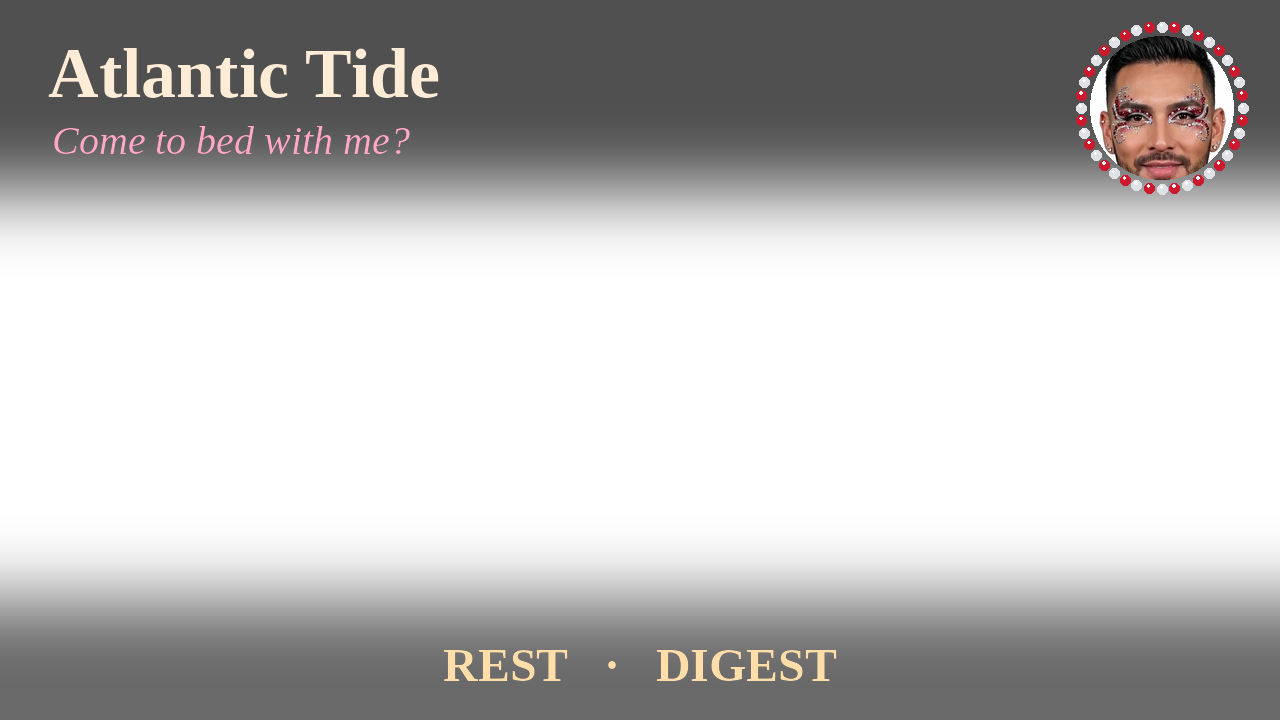
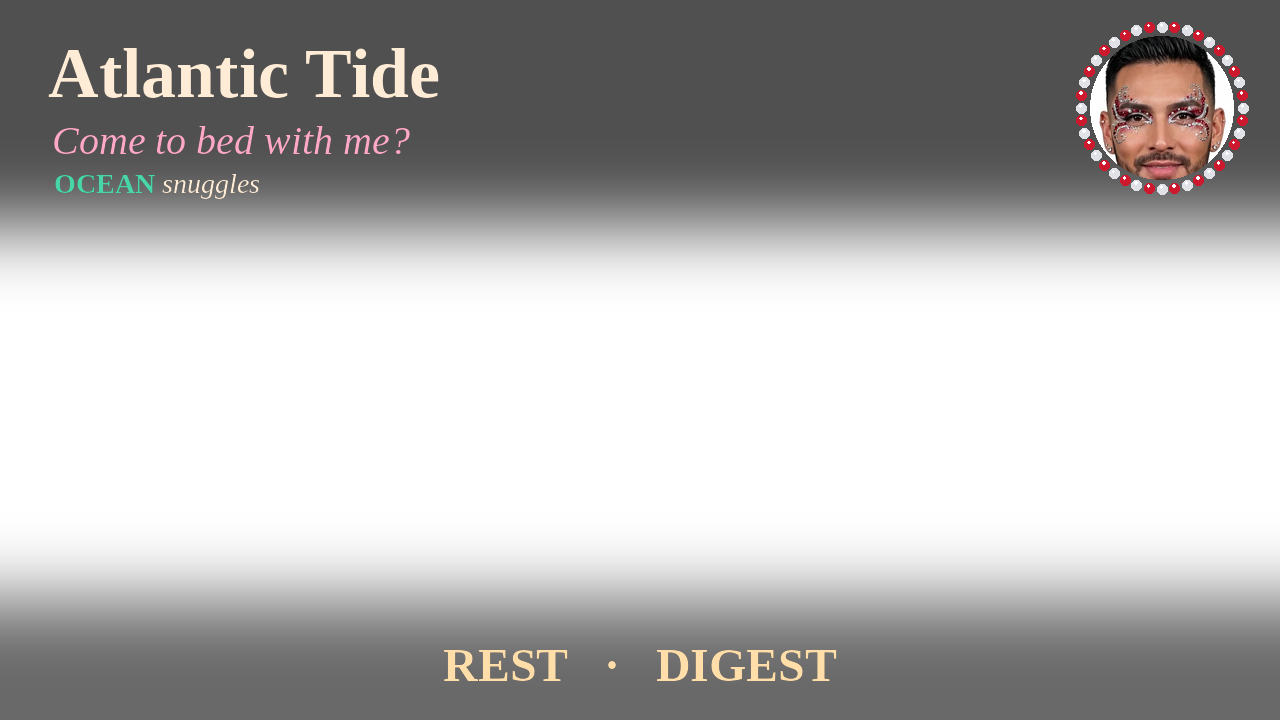
Atlantic Tide: third line OCEAN snuggles (sea green), per Matthew
Claude-Session: https://claude.ai/code/session_018WVMwHw3unxn1QqfaE8vZz

Changed region(s): [[0.0, 0.2139, 1.0, 0.3667]]

diff --git a/mateo/ocean-night/make_cover.py b/mateo/ocean-night/make_cover.py
@@ -22,11 +22,15 @@ def medallion(d, base, cx, cy, r):
 def layer(title_size, sub_size, rd_size, r):
     ov = Image.new('RGBA', (W, H), (0, 0, 0, 0))
     sh = Image.new('L', (W, H), 0); sd = ImageDraw.Draw(sh)
-    sd.rectangle([0, 0, W, 190], fill=175); sd.rectangle([0, H - 120, W, H], fill=150)
+    sd.rectangle([0, 0, W, 225], fill=175); sd.rectangle([0, H - 120, W, H], fill=150)
     ov.putalpha(sh.filter(ImageFilter.GaussianBlur(35)))
     d = ImageDraw.Draw(ov)
     d.text((48, 34), "Atlantic Tide", font=ImageFont.truetype(S, title_size), fill=(255, 236, 214, 255))
     d.text((52, 40 + title_size * 1.12), "Come to bed with me?", font=ImageFont.truetype(SI, sub_size), fill=(255, 168, 200, 255))
+    y3 = 40 + title_size * 1.12 + sub_size * 1.25
+    f3 = ImageFont.truetype(SI, int(sub_size * 0.72)); fo = ImageFont.truetype(S, int(sub_size * 0.72))
+    d.text((54, y3), "OCEAN", font=fo, fill=(72, 214, 168, 255))
+    d.text((54 + d.textlength("OCEAN ", font=fo), y3), "snuggles", font=f3, fill=(255, 236, 214, 255))
     medallion(d, ov, W - r - 46, r + 36, r)
     f = ImageFont.truetype(S, rd_size); t = "REST   ·   DIGEST"
     d.text(((W - d.textlength(t, font=f)) / 2, H - rd_size - 34), t, font=f, fill=(255, 222, 170, 255))
